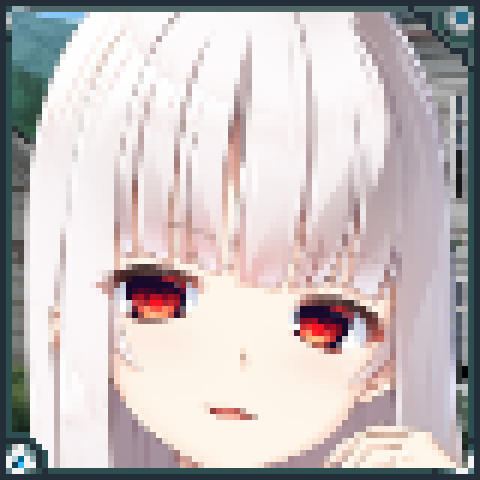
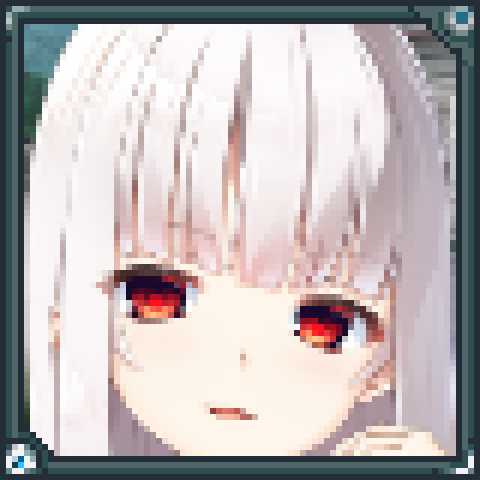
一些优化

Changed region(s): [[0.0938, 0.0938, 1.0, 1.0], [0.0, 0.0, 0.9062, 0.9062], [0.0625, 0.9062, 0.0938, 0.9375]]

diff --git a/Kagome.cs b/Kagome.cs
@@ -7,6 +7,7 @@ using Microsoft.Xna.Framework.Input;
 using System.Collections.Generic;
 using System.ComponentModel;
 using System.IO;
+using System.Threading.Tasks;
 using Terraria;
 using Terraria.Audio;
 using Terraria.ID;
@@ -126,29 +127,24 @@ namespace Kagome
             }
         }
 
-        public override void PostDrawMenu(GameTime gameTime) {
-            if (!KagomeConfig.Instance.YuanShenQD) {
-                return;
-            }
-
-            if (frame > texture2Ds.Count - 1) {
-                DisposeTexs();//放完后释放
-                return;
-            }
-            Main.spriteBatch.Draw(texture2Ds[frame], new Rectangle(0, 0, Main.screenWidth, Main.screenHeight), Color.White * sengs);
-        }
-
         public override bool? DrawMenu(GameTime gameTime) {
+            KeyboardState currentKeyState = Main.keyState;
+            KeyboardState previousKeyState = Main.oldKeyState;
+            bool downKey = currentKeyState.IsKeyDown(Keys.Escape) && !previousKeyState.IsKeyDown(Keys.Escape);
+
             if (!VaultLoad.LoadenContent || frame >= texture2Ds.Count) {
+                if (downKey) {//重播
+                    frame = 0;
+                    frameCount = 0;
+                    return false;
+                }
                 return base.DrawMenu(gameTime);
             }
 
-            KeyboardState currentKeyState = Main.keyState;
-            KeyboardState previousKeyState = Main.oldKeyState;
-            if (currentKeyState.IsKeyDown(Keys.Escape) && !previousKeyState.IsKeyDown(Keys.Escape)) {
+            if (downKey) {
                 SoundEngine.PlaySound(SoundID.MenuClose);
-                frame = texture2Ds.Count;
-                DisposeTexs();
+                frame = texture2Ds.Count - 10;
+                //DisposeTexs();
                 return false;
             }
 
@@ -174,7 +170,7 @@ namespace Kagome
                     frame++;
                     frameCount = 0;
                     if (frame > texture2Ds.Count - 1) {
-                        DisposeTexs();//放完后释放
+                        //DisposeTexs();//放完后释放
                         return false;
                     }
                 }
@@ -182,6 +178,18 @@ namespace Kagome
             }
             
             return false;
+        }
+
+        public override void PostDrawMenu(GameTime gameTime) {
+            if (!KagomeConfig.Instance.YuanShenQD) {
+                return;
+            }
+
+            if (frame > texture2Ds.Count - 1) {
+                //DisposeTexs();//放完后释放
+                return;
+            }
+            Main.spriteBatch.Draw(texture2Ds[frame], new Rectangle(0, 0, Main.screenWidth, Main.screenHeight), Color.White * sengs);
         }
     }
 }
